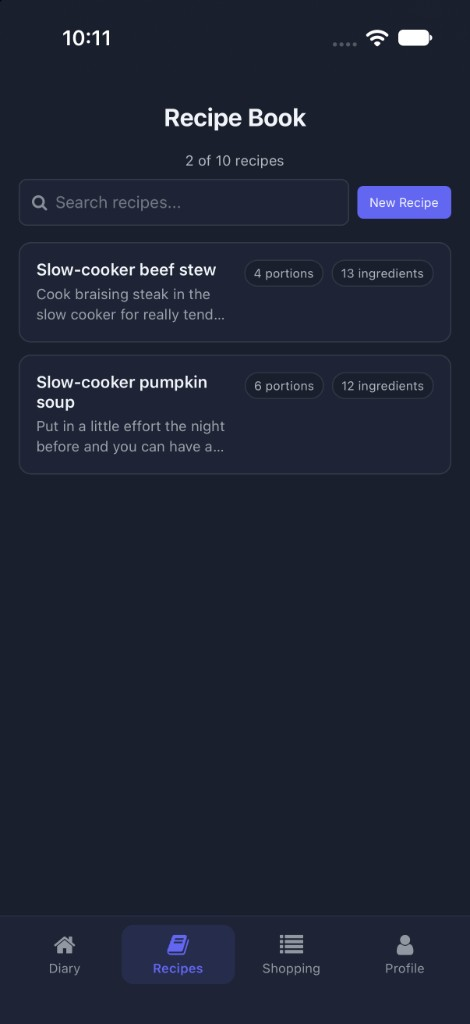
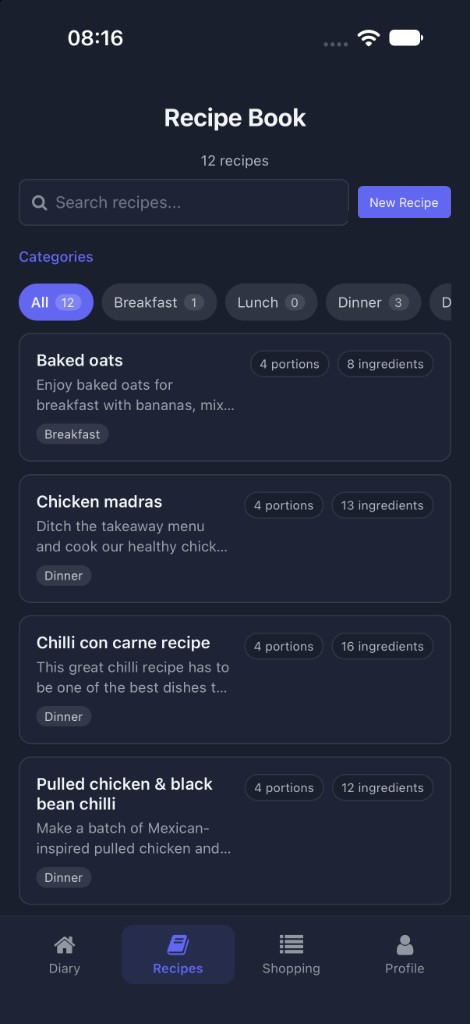
Show each recipe’s categories on the mobile list and the marketing site.
The recipe card now labels Breakfast, Dinner, and custom categories, and the marketing recipe section uses that screenshot.

diff --git a/apps/mobile/components/recipe/RecipeCard.tsx b/apps/mobile/components/recipe/RecipeCard.tsx
@@ -13,6 +13,7 @@ interface RecipeCardProps {
 export function RecipeCard({ recipe, onPress }: RecipeCardProps) {
   const { t } = useTranslation();
   const ingredientCount = recipe.ingredients?.length ?? 0;
+  const categories = recipe.categories ?? [];
 
   return (
     <Pressable
@@ -51,6 +52,19 @@ export function RecipeCard({ recipe, onPress }: RecipeCardProps) {
           ) : null}
         </View>
       </View>
+      {categories.length > 0 ? (
+        <View className="mt-2 flex-row flex-wrap gap-1.5" testID={`recipe-card-categories-${recipe.id}`}>
+          {categories.map((category) => (
+            <View
+              key={category.id}
+              className="rounded-full bg-ice/10 px-2 py-0.5"
+              testID={`recipe-card-category-${recipe.id}-${category.id}`}
+            >
+              <Text className="text-xs text-ice/80">{category.name}</Text>
+            </View>
+          ))}
+        </View>
+      ) : null}
     </Pressable>
   );
 }
